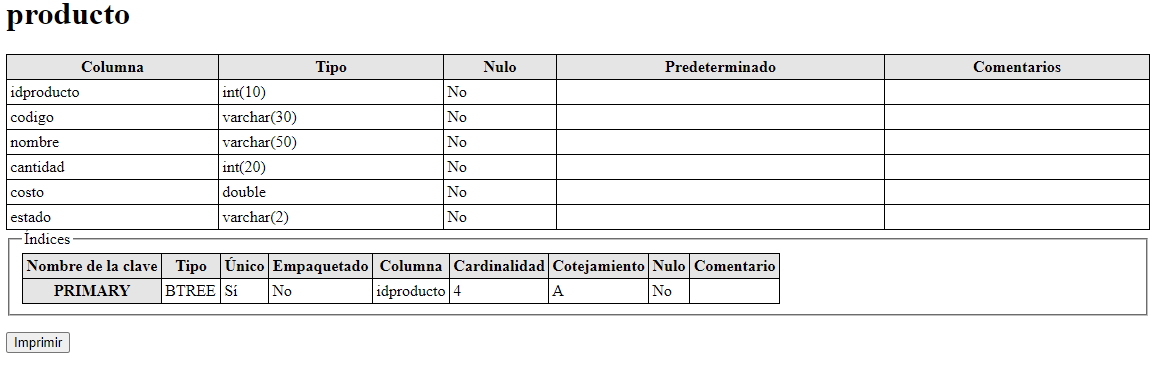
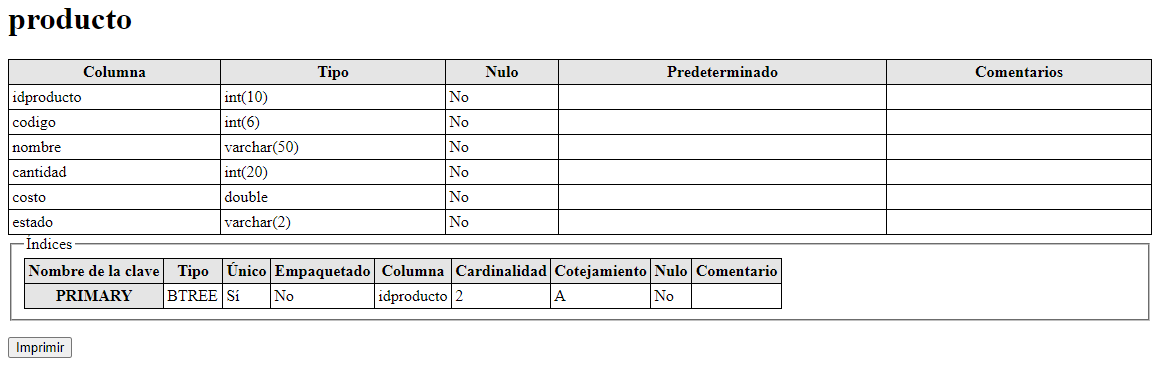
Clase Producto.java

Changed region(s): [[0.0, 0.1503, 0.9948, 0.8716], [0.0, 0.0, 0.1244, 0.0902], [0.0, 0.9016, 0.0622, 0.9918]]

diff --git a/src/java/Modelo/Producto.java b/src/java/Modelo/Producto.java
@@ -2,16 +2,16 @@ package Modelo;
 
 public class Producto {
     private int idproducto;
-    private String codigo;
+    private int codigo;
     private String nombre;
-    private String cantidad;
-    private String costo;
+    private int cantidad;
+    private double costo;
     private String estado;
     
     //Constructor Vacio
     public Producto(){ 
     }
-    public Producto(String codigo, String nombre, String cantidad, String costo,  String estado){ 
+    public Producto(int codigo, String nombre, int cantidad, double costo,  String estado){ 
         this.codigo = codigo;
         this.nombre = nombre;
         this.cantidad = cantidad;
@@ -26,10 +26,10 @@ public class Producto {
         this.idproducto = idproducto;
     }
     
-    public String getCodigo() {
+    public int getCodigo() {
         return codigo;
     }
-    public void setCodigo(String codigo) {
+    public void setCodigo(int codigo) {
         this.codigo = codigo;
     }
 
@@ -40,17 +40,17 @@ public class Producto {
         this.nombre = nombre;
     }
 
-    public String getCantidad() {
+    public int getCantidad() {
         return cantidad;
     }
-    public void setCantidad(String apellidos) {
+    public void setCantidad(int cantidad) {
         this.cantidad = cantidad;
     }
 
-    public String getCosto() {
+    public double getCosto() {
         return costo;
     }
-    public void setCosto(String dni) {
+    public void setCosto(double costo) {
         this.costo = costo;
     }
 
